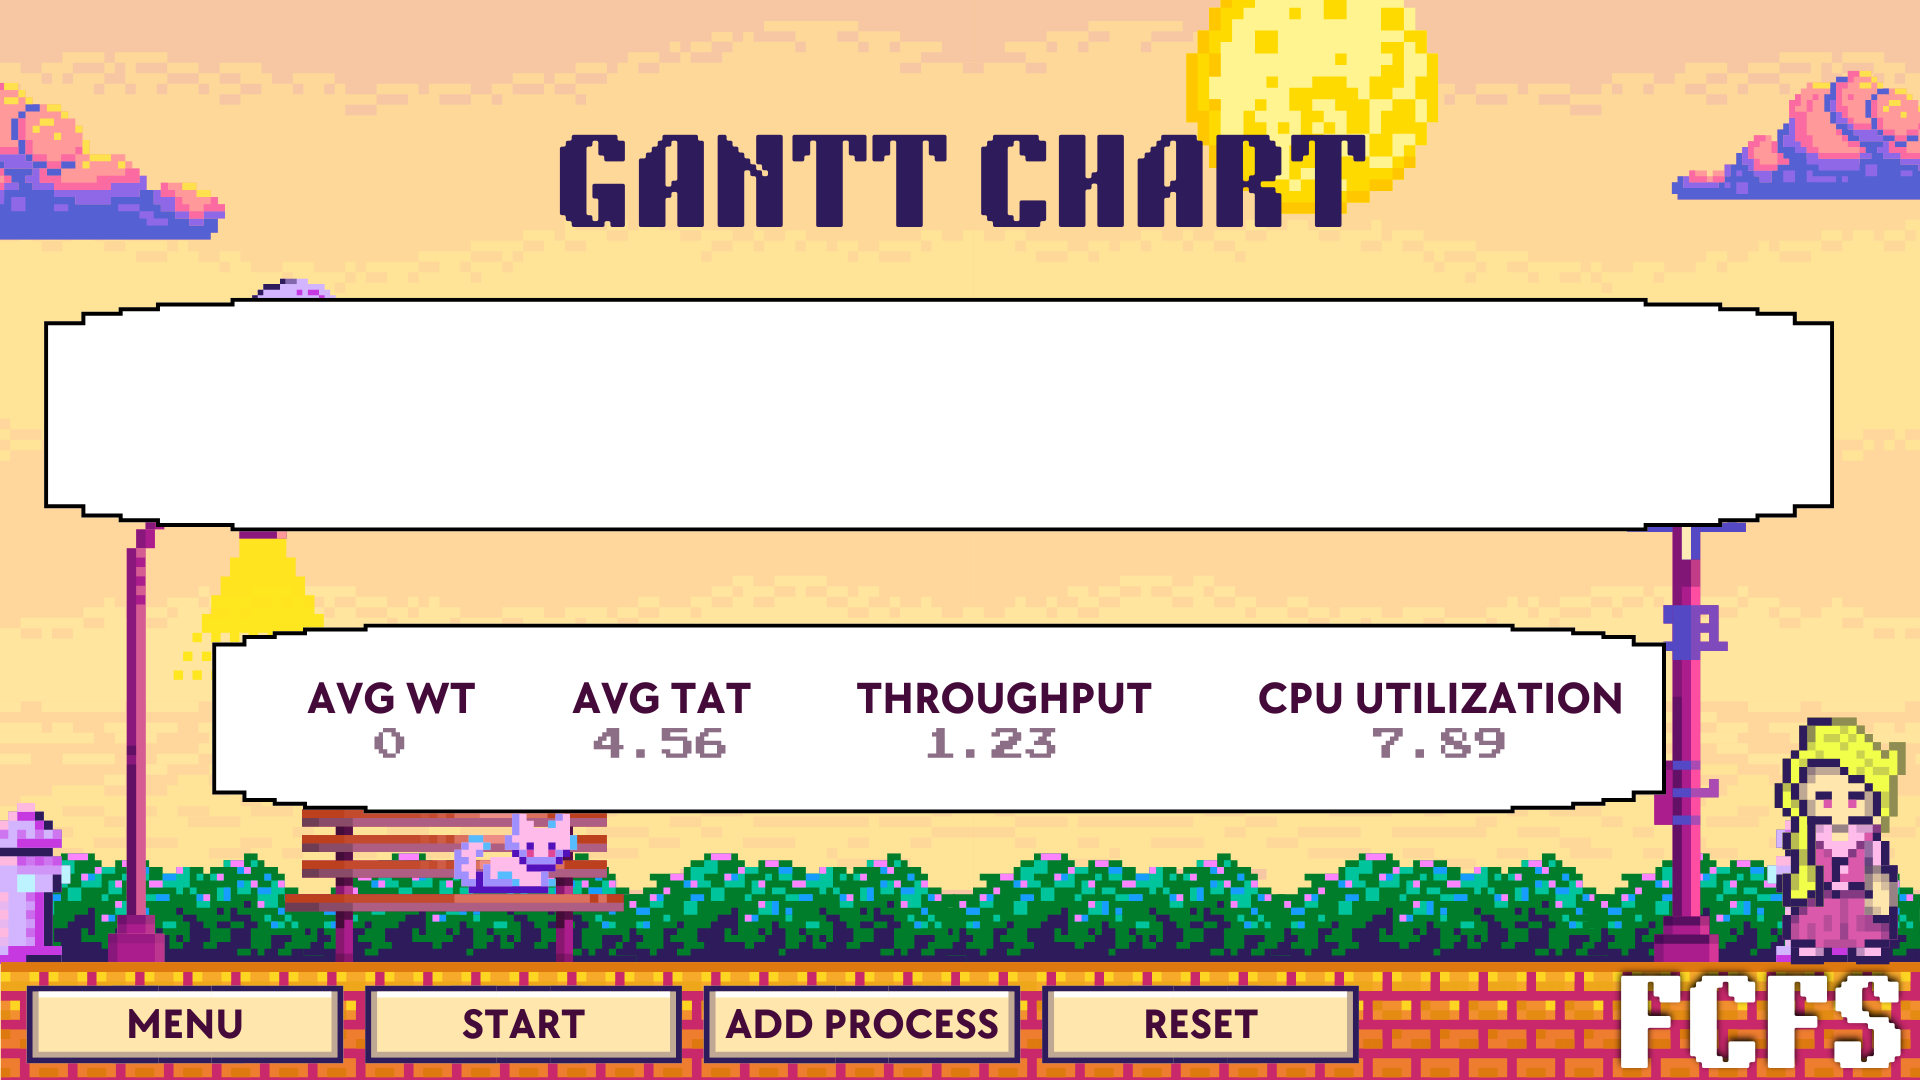
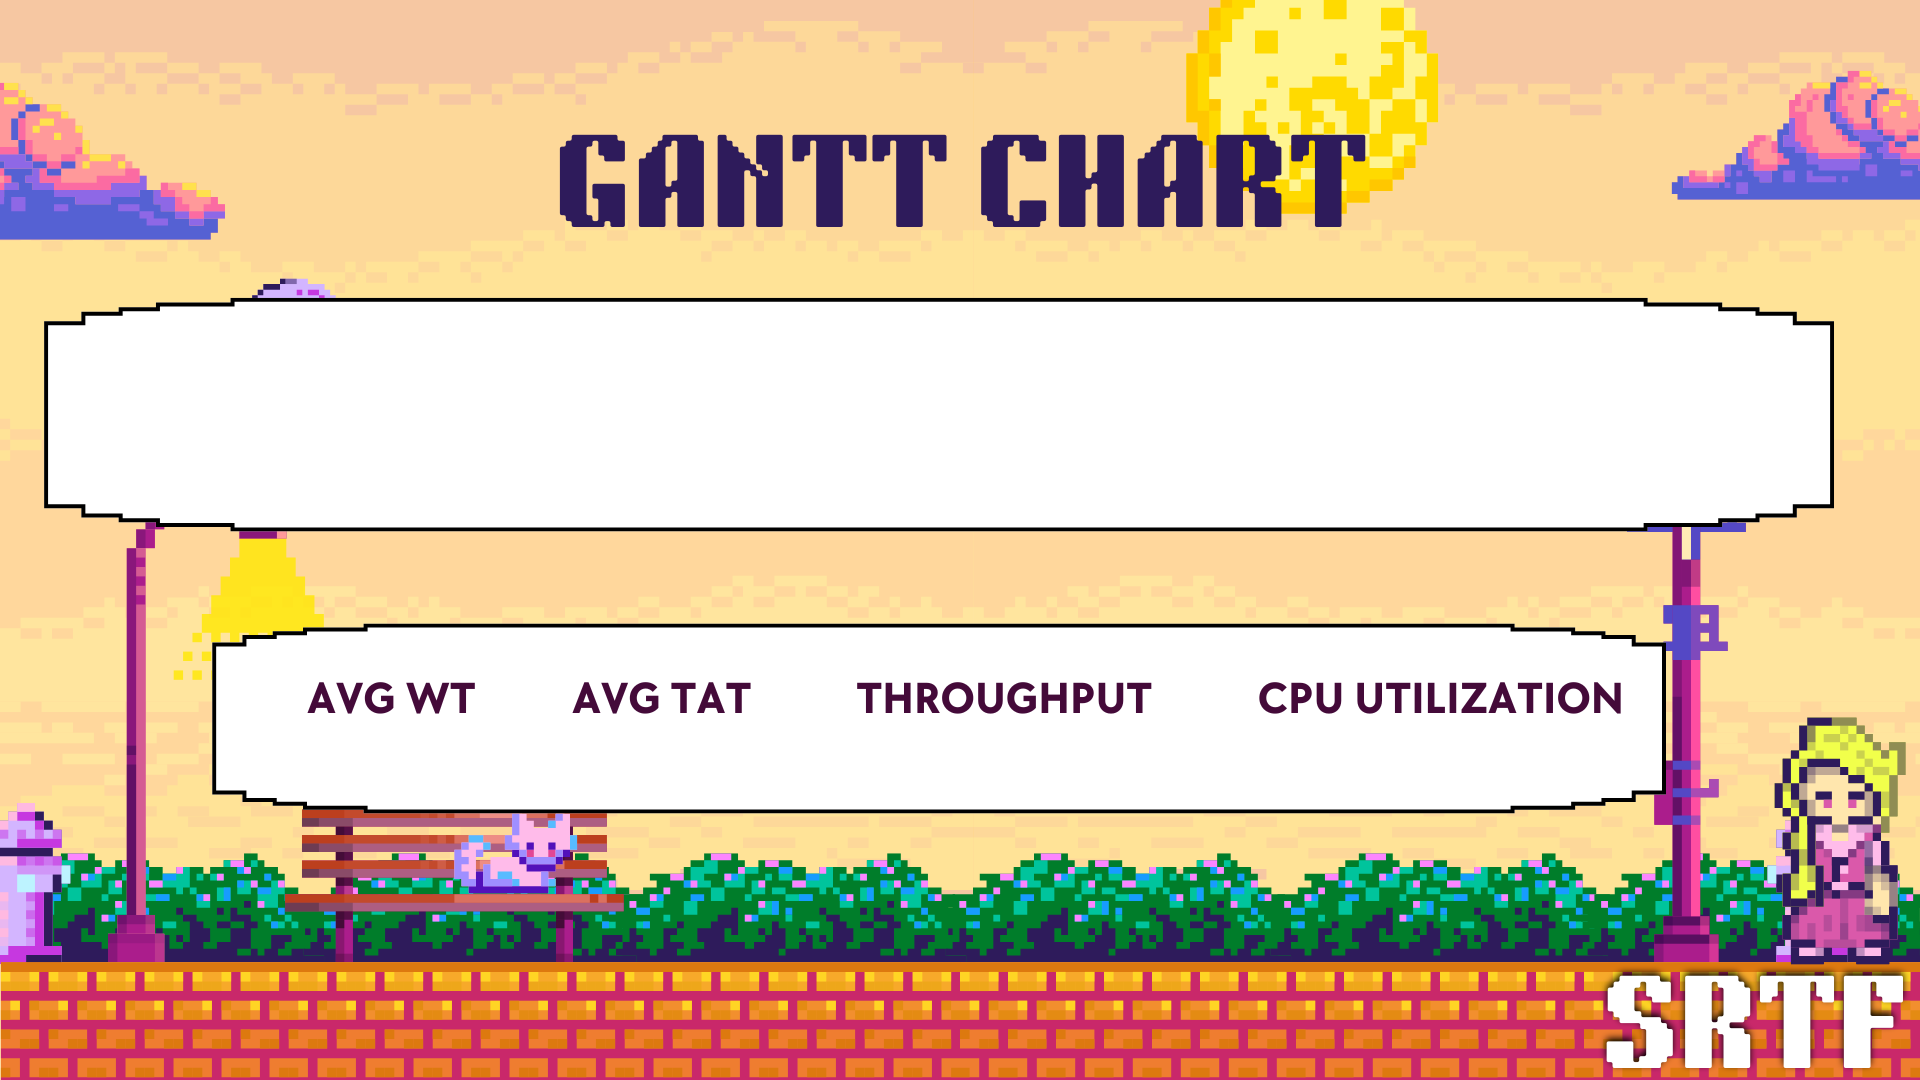
fix: realigned elements

diff --git a/scheduler_base.py b/scheduler_base.py
@@ -35,42 +35,34 @@ class SchedulerBase:
         self.persistent_canvas_items.append(bg_id)
         
         # =====================================================================
-        # 1. LIVE METRICS LAYER (Uses color token: COLORS['metrics_text'])
+        # 1. LIVE METRICS LAYER (Dynamic Results Only - Labels are baked into background.png)
         # =====================================================================
-        metrics_config = [
-            ("AVG TAT:", "average_tat"),
-            ("AVG WT:", "average_wt"),
-            ("CPU Utilization:", "cpu_utilization"),
-            ("Throughput:", "throughput")
-        ]
+        # All string literals for names have been removed. We only loop through keys
+        # to map the text modification IDs directly under your background artwork.
+        metrics_keys = ["average_tat", "average_wt", "cpu_utilization", "throughput"]
 
         m_x = METRICS_LAYOUT['start_x']
         m_y = METRICS_LAYOUT['start_y']
         m_space = METRICS_LAYOUT['spacing_x']
-        v_offset = METRICS_LAYOUT['value_offset_x']
+        v_offset_y = METRICS_LAYOUT['value_offset_y']
 
-        for i, (label_text, key_name) in enumerate(metrics_config):
+        for i, key_name in enumerate(metrics_keys):
             current_x = m_x + (i * m_space)
             
-            lbl_id = self.canvas.create_text(
-                current_x, m_y, text=label_text, font=FONTS['metric'],
-                fill=COLORS['metrics_text'], anchor=tk.W
-            )
-            
+            # Dynamic Value Text Layer (Positioned directly over your graphic slots)
             initial_val = "--%" if key_name == "cpu_utilization" else "--"
             value_id = self.canvas.create_text(
-                current_x + v_offset, m_y, text=initial_val, font=FONTS['metric'],
-                fill=COLORS['metrics_text'], anchor=tk.W
+                current_x, m_y + v_offset_y, text=initial_val, font=FONTS['metric'],
+                fill="#8c6f87", anchor=tk.W
             )
             
+            # Register value ID to protection arrays and backend tracking dicts
             self.metrics_labels[key_name] = value_id
-            self.persistent_canvas_items.append(lbl_id)
             self.persistent_canvas_items.append(value_id)
 
         # =====================================================================
-        # 2. NATIVE CONTROL BUTTONS LAYER (Absolute Coordinate Positioning)
+        # 2. NATIVE CONTROL BUTTONS LAYER (Absolute Large Sizing Realignment)
         # =====================================================================
-        # FIX: Switched from relative offsets to a direct absolute pixel coordinate
         btn_y = BUTTONS_LAYOUT['start_y']
         btn_x_start = BUTTONS_LAYOUT['start_x']
         btn_space = BUTTONS_LAYOUT['spacing_x']
@@ -81,8 +73,8 @@ class SchedulerBase:
             'fg': '#000000',
             'relief': tk.SOLID,
             'bd': 1,
-            'padx': BUTTONS_LAYOUT['btn_padx'],  
-            'pady': BUTTONS_LAYOUT['btn_pady'],  
+            'padx': BUTTONS_LAYOUT['main_btn_padx'],  
+            'pady': BUTTONS_LAYOUT['main_btn_pady'],  
             'activebackground': '#ebd29b',
             'activeforeground': '#000000'
         }

diff --git a/temporary_utils/layout_config.py b/temporary_utils/layout_config.py
@@ -7,17 +7,17 @@ on the master canvas window layer.
 # 1. LIVE METRICS AREA COORDINATES (Top Section Group)
 # =====================================================================
 METRICS_LAYOUT = {
-    'start_x': 300,                  
-    'start_y': 700,                   
-    'spacing_x': 370,                
-    'value_offset_x': 160            
+    'start_x': 380,                  
+    'start_y': 720,                   
+    'spacing_x': 350,                
+    'value_offset_y': 40             # FIX: Vertical gap pushing metrics directly UNDER names
 }
 
 # =====================================================================
 # 2. SIMULATION CANVAS TRACK (Middle Section Group)
 # =====================================================================
 SIMULATION_PANE = {
-    'y_start_coordinate': 400,       
+    'y_start_coordinate': 900,       
     'process_block_height': 80,      
     'left_margin': 100,              
     'right_margin': 100,             
@@ -25,16 +25,16 @@ SIMULATION_PANE = {
 }
 
 # =====================================================================
-# 3. NATIVE BUTTONS CONTROL LAYOUT (Bottom Section Group)
+# 3. NATIVE BUTTONS CONTROL LAYOUT (Main Page Only)
 # =====================================================================
 BUTTONS_LAYOUT = {
-    'start_x': 30,                  # Horizontal starting point for the button row
-    'start_y': 1020,                 # FIX: Absolute vertical coordinate (places them cleanly at the bottom)
+    'start_x': 30,                  
+    'start_y': 1020,                 
     'spacing_x': 340,                
     
-    # MANUAL SIZE ADJUSTMENTS: Increase these to make buttons larger
-    'btn_padx': 35,                  
-    'btn_pady': 15                   
+    # FIX: Exclusive main window sizing constants (Independent from child popup)
+    'main_btn_padx': 40,             # Increased horizontal padding for larger layout
+    'main_btn_pady': 22              # Increased vertical padding for larger layout
 }
 
 # =====================================================================

diff --git a/temporary_utils/theme.py b/temporary_utils/theme.py
@@ -23,7 +23,7 @@ FONTS = {
     'default': ('Courier', 11, 'bold'),
     'heading': ('Courier', 16, 'bold'),
     'small': ('Courier', 9, 'bold'),
-    'metric': ('Courier', 14, 'bold')
+    'metric': ('Courier', 20, 'bold')
 }
 
 # Window dimensions
